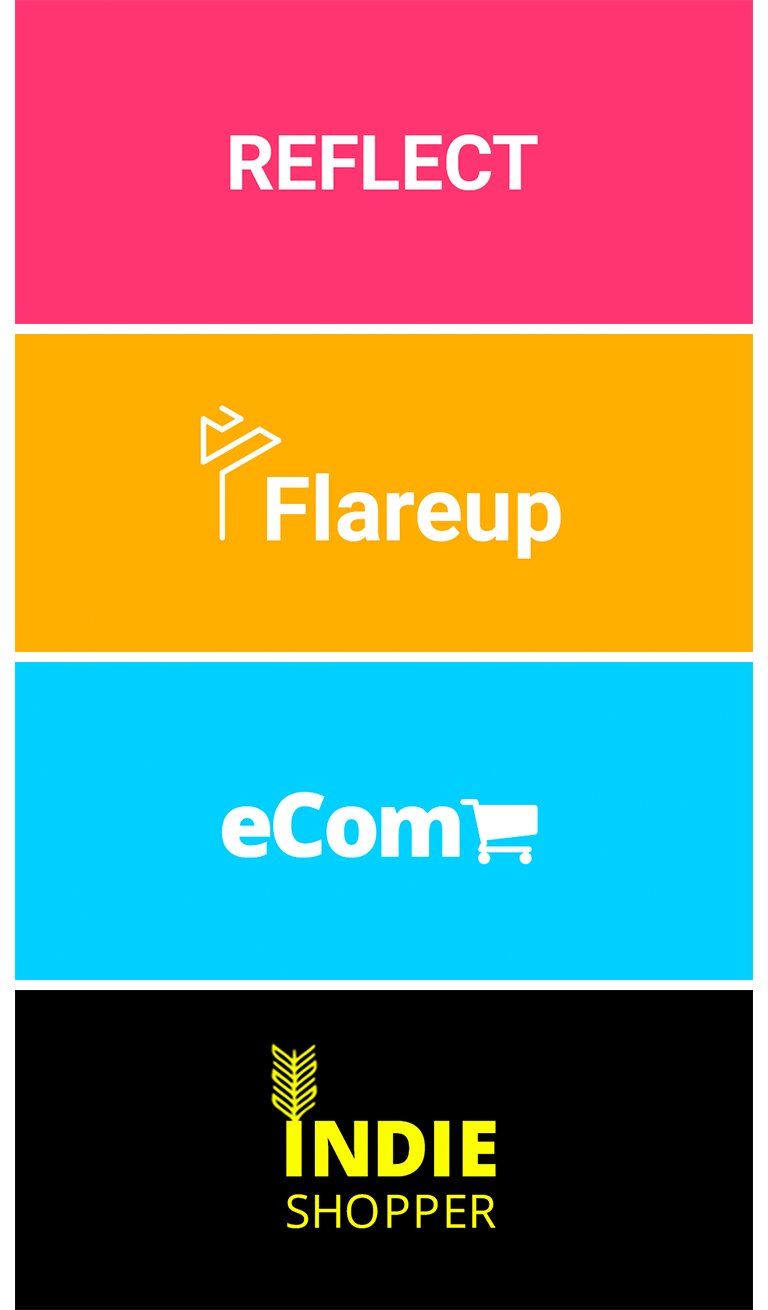
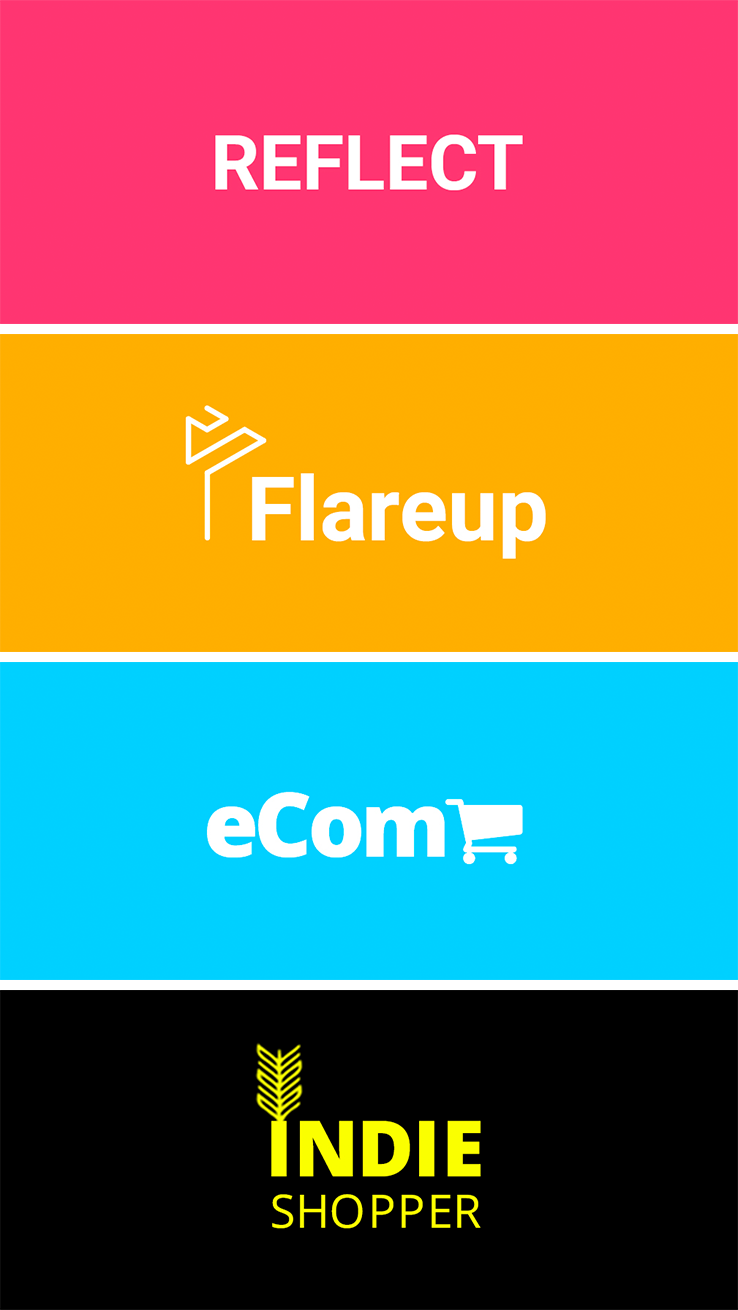
Home page - text_list>>> #1422

diff --git a/css/blocks.css b/css/blocks.css
@@ -70,7 +70,7 @@
 --------------------------------------------------------------*/
 
 .block-image-bg {
-    padding-top: 11rem;
+    padding-top: 0rem;
     padding-bottom: 0rem;
     text-align: center;
     background-repeat: no-repeat;
@@ -95,7 +95,7 @@
 
 .block-image-bg .h2-block {
    text-transform: uppercase;
-   margin-top: 0px;
+   margin-top: 107px;
    color: #000;
    font-size: 5.4rem;
    position: absolute;
@@ -106,6 +106,14 @@
 }
 .block-image-bg .imagetablet, .block-image-bg .imagemobile {
     display: none;
+}
+@media (max-width: 1700px) {
+.block-image-bg .h2-block {
+    margin-top: 0;
+}
+.block-image-bg {
+    padding-top: 9.5rem;
+   }
 }
 @media (max-width: 1200px) { 
     .block-image-bg .imagedesktop {
@@ -458,7 +466,8 @@
     color: #000;
     text-align: center;
     font-size: 5.4rem;
-    margin-left: 12.3rem;
+    margin-left: 10.3rem;
+    max-width: 310px;
     line-height: 1.25;
     position: relative;
     top: 95px;
@@ -506,7 +515,7 @@
         position: relative;
     }
     .call-to-action-bg-v4 .header-block {
-        margin-left: 26.3rem;
+        margin-left: 21.3rem;
         font-size: 4.4rem;
         top: 80px;
     }
@@ -527,7 +536,7 @@
 }
 @media (max-width: 1199px) {
     .call-to-action-bg-v4 .header-block {
-       margin-left: 16.3rem;
+       margin-left: 11.3rem;
        font-size: 4.4rem;
    }
    .call-to-action-bg-v4 .btn-action {
@@ -547,7 +556,7 @@
 }
 @media (max-width: 991px) {
  .call-to-action-bg-v4 .header-block {
-    margin-left: 5.3rem;
+    margin-left: 0rem;
     font-size: 4.4rem !important;
     text-align: center !important;
 }
@@ -558,7 +567,7 @@
 @media (max-width: 768px) {
     .call-to-action-bg-v4 {
         height: auto;
-        padding-top: 5rem;
+        padding-top: 4.3rem;
         background: #dedede;
         padding-bottom: 60px;
     }
@@ -569,10 +578,10 @@
         display: block;
         width: 100%;
         padding-left: 0 !important;
-        font-size: 5.4rem !important;
+        font-size: 3rem !important;
         top: 0px;
-        text-align: center !important;
-        padding-bottom: 21px;
+        text-align: left !important;
+        padding-bottom: 13px;
     }
     .call-to-action-bg-v4 .btn-action {
         margin-top: 30px;
@@ -588,7 +597,7 @@
     .call-to-action-bg-v4 .imagemobile {
         display: block;
         z-index: 1;
-        width: 95%;
+        width: calc(100% - 30px);
         margin: 0 auto;
     }
 }
@@ -1302,7 +1311,7 @@
 }
 .list_simple ul {
     max-width: 565px;
-    margin: 0 auto;
+    margin: 31px auto 0;
 }
 
 
@@ -1311,7 +1320,8 @@
         padding-left: 0 !important;
     }
         .list_simple ul {
-        max-width: 100%;    
+        max-width: 100%; 
+        margin-top: 16px;   
     }
     .list_simple {
         padding-top: 3.5rem;
@@ -3671,8 +3681,8 @@ _::-webkit-:not(:root:root), .header-block-bg-video .container .row{
 .achievements-block form {
     max-width: 945px;
     position: relative;
-    height: 64px;
-    margin: 15px auto 15px;
+    height: 70px;
+    margin: 39px auto 8px;
 }
 
 .achievements-block form input[name='email'] {
@@ -3770,15 +3780,17 @@ _::-webkit-:not(:root:root), .header-block-bg-video .container .row{
         line-height: 43px;
     }
     .achievements-block form input[name="email"] {
-        max-width: calc(100% - 108px);
+        max-width: calc(100% - 103px);
+        padding-left: 15px;
+        padding-right: 15px;
     }
     .achievements-block form input[type="submit"] {
-        max-width: 104px;
+        max-width: 103px;
         width: 100%;
         font-size: 1.4rem;
     }   
     .achievements-block .downloads_achievement {
-            margin-bottom: 3rem;
+            margin-bottom: 3.6rem;
     }
      .achievements-block .downloads_achievement span, 
     .achievements-block .installs_achievement span {
@@ -3945,7 +3957,7 @@ _::-webkit-:not(:root:root), .header-block-bg-video .container .row{
     max-width: calc(100% - 126px);
     height: 100%;
     font-size: 1.3rem;
-
+    padding: 0 15px 0 15px;
 }
 .contact-image .h2-block {
     font-size: 3rem;
